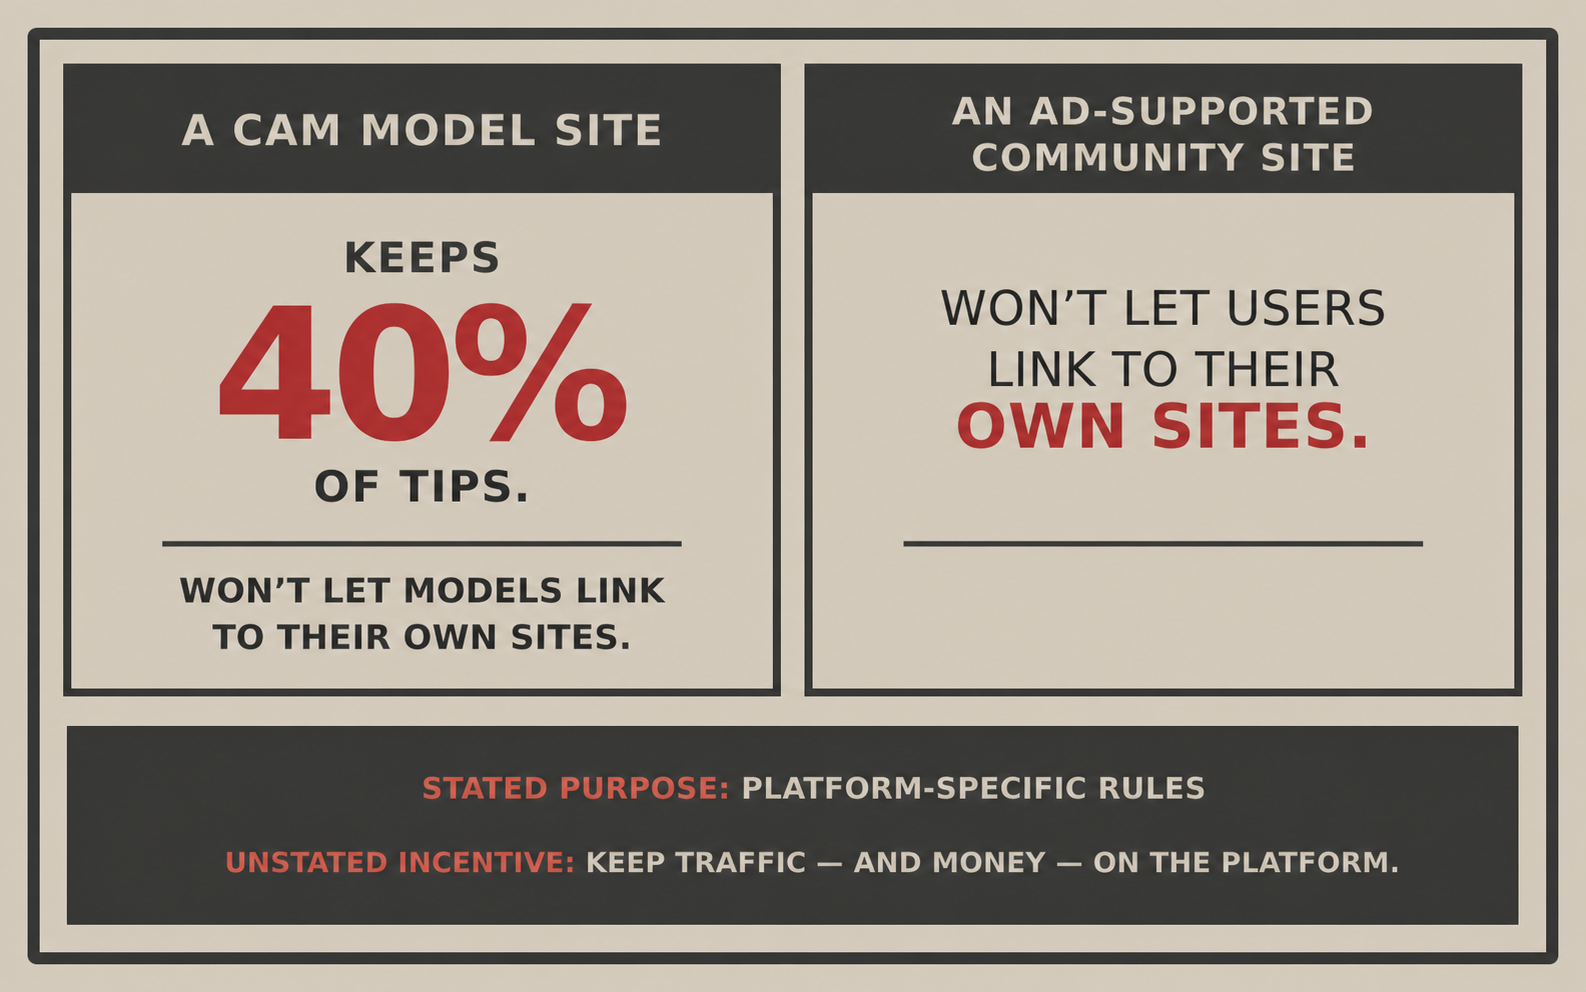
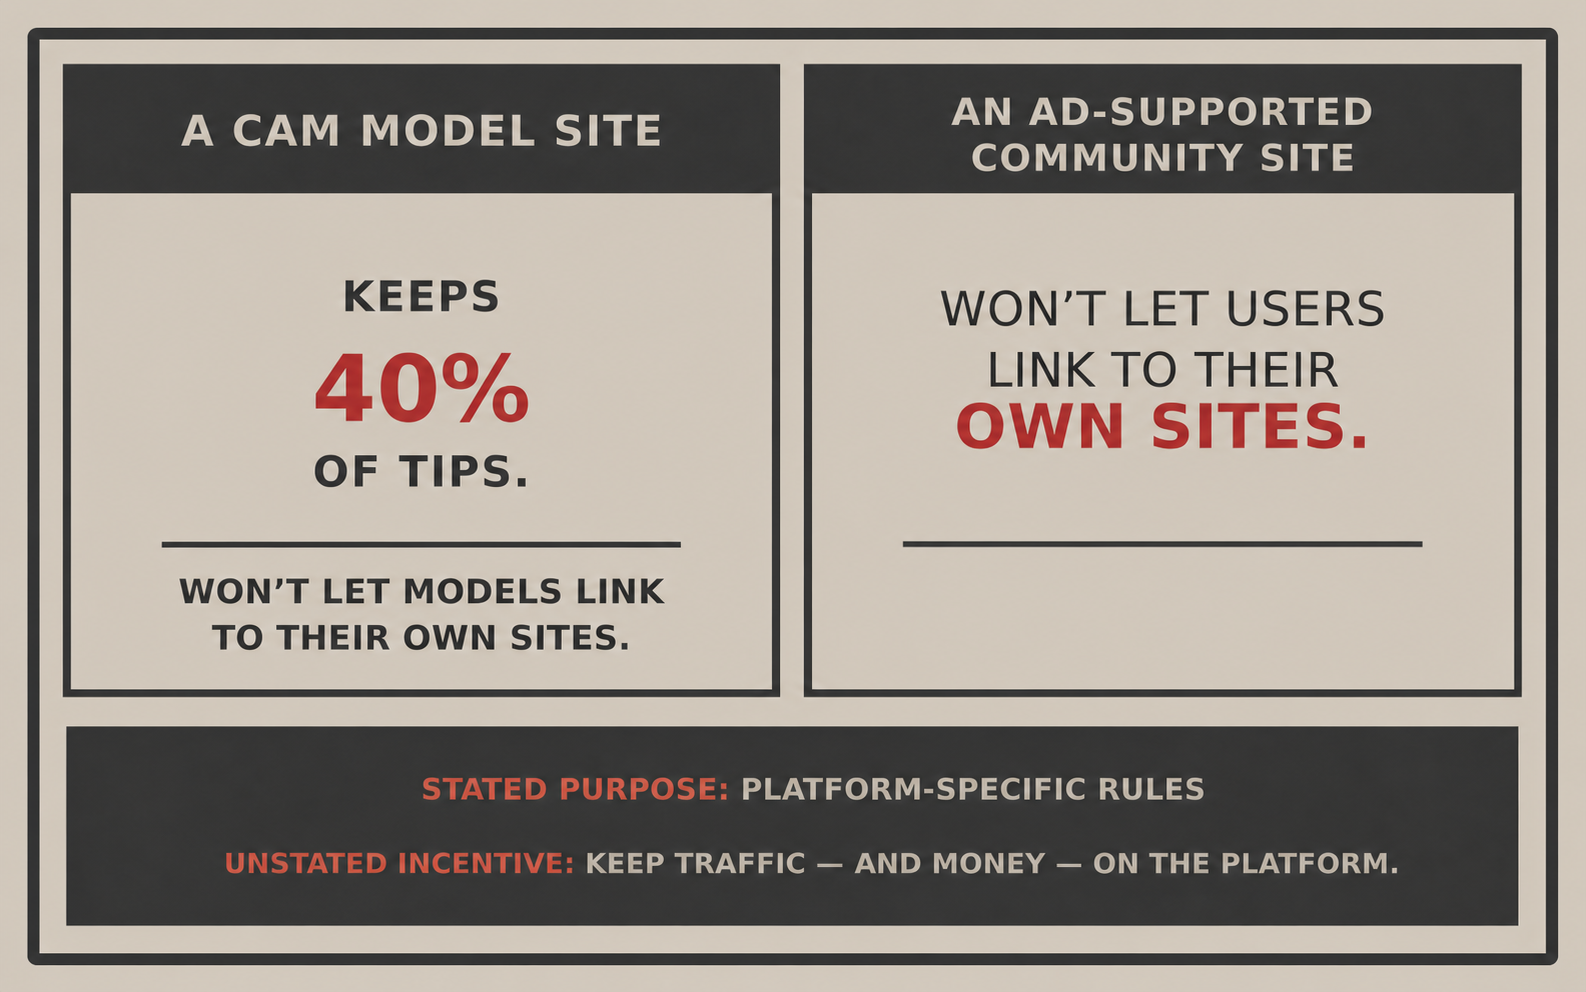
Reduce Captive Users percentage emphasis

diff --git a/comics/captive-users/index.html b/comics/captive-users/index.html
@@ -10,7 +10,7 @@
     <meta property="og:site_name" content="Stealing Art Jobs" />
     <meta property="og:title" content="Captive Users — Stealing Art Jobs" />
     <meta property="og:description" content="A comparison of cam-model and ad-supported community sites that argues both prohibit outbound links to keep traffic and money on their platforms." />
-    <meta property="og:image" content="https://stealingartjobs.com/comics/captive-users.png" />
+    <meta property="og:image" content="https://stealingartjobs.com/comics/captive-users.png?v=2" />
     <meta property="og:url" content="https://stealingartjobs.com/comics/captive-users/" />
     <link rel="canonical" href="https://stealingartjobs.com/comics/captive-users/" />
     <title>Captive Users — Stealing Art Jobs</title>
@@ -19,7 +19,7 @@
     <link href="https://fonts.googleapis.com/css2?family=DM+Mono:wght@400;500&family=Manrope:wght@500;600;700;800&display=swap" rel="stylesheet" />
     <link rel="stylesheet" href="/styles.css?v=19" />
     <script type="application/ld+json">{"@context":"https://schema.org","@type":"WebSite","name":"Stealing Art Jobs","url":"https://stealingartjobs.com/","description":"An independent webcomic about art, work, technology, and strange incentives."}</script>
-    <script type="application/ld+json">{"@context": "https://schema.org", "@type": "CreativeWork", "name": "Captive Users", "description": "A comparison of cam-model and ad-supported community sites that argues both prohibit outbound links to keep traffic and money on their platforms.", "datePublished": "2026-08-28", "image": "https://stealingartjobs.com/comics/captive-users.png", "url": "https://stealingartjobs.com/comics/captive-users/", "isPartOf": {"@type": "WebSite", "name": "Stealing Art Jobs", "url": "https://stealingartjobs.com/"}}</script>
+    <script type="application/ld+json">{"@context": "https://schema.org", "@type": "CreativeWork", "name": "Captive Users", "description": "A comparison of cam-model and ad-supported community sites that argues both prohibit outbound links to keep traffic and money on their platforms.", "datePublished": "2026-08-28", "image": "https://stealingartjobs.com/comics/captive-users.png?v=2", "url": "https://stealingartjobs.com/comics/captive-users/", "isPartOf": {"@type": "WebSite", "name": "Stealing Art Jobs", "url": "https://stealingartjobs.com/"}}</script>
   </head>
   <body>
     <header class="site-header">
@@ -72,7 +72,7 @@
 
         <figure class="comic-frame" id="comic-frame">
           <button class="comic-arrow comic-arrow-previous" id="comic-previous" type="button" aria-label="Previous comic"><span aria-hidden="true">&lt;</span></button>
-          <img id="comic-image" src="/comics/captive-users.png" alt="An infographic compares a cam-model site that keeps 40 percent of tips with an ad-supported community site. Both prohibit users from linking to their own sites, keeping traffic and money on the platform." />
+          <img id="comic-image" src="/comics/captive-users.png?v=2" alt="An infographic compares a cam-model site that keeps 40 percent of tips with an ad-supported community site. Both prohibit users from linking to their own sites, keeping traffic and money on the platform." />
           <button class="comic-arrow comic-arrow-next" id="comic-next" type="button" aria-label="Next comic" disabled><span aria-hidden="true">&gt;</span></button>
         </figure>
 

diff --git a/index.html b/index.html
@@ -10,7 +10,7 @@
     <meta property="og:site_name" content="Stealing Art Jobs" />
     <meta property="og:title" content="Stealing Art Jobs" />
     <meta property="og:description" content="An independent webcomic about art, work, technology, and strange incentives." />
-    <meta property="og:image" content="https://stealingartjobs.com/comics/captive-users.png" />
+    <meta property="og:image" content="https://stealingartjobs.com/comics/captive-users.png?v=2" />
     <meta property="og:url" content="https://stealingartjobs.com/" />
     <link rel="canonical" href="https://stealingartjobs.com/" />
     <title>Stealing Art Jobs — Independent Webcomic</title>
@@ -71,7 +71,7 @@
 
         <figure class="comic-frame" id="comic-frame">
           <button class="comic-arrow comic-arrow-previous" id="comic-previous" type="button" aria-label="Previous comic"><span aria-hidden="true">&lt;</span></button>
-          <img id="comic-image" src="/comics/captive-users.png" alt="An infographic compares a cam-model site that keeps 40 percent of tips with an ad-supported community site. Both prohibit users from linking to their own sites, keeping traffic and money on the platform." />
+          <img id="comic-image" src="/comics/captive-users.png?v=2" alt="An infographic compares a cam-model site that keeps 40 percent of tips with an ad-supported community site. Both prohibit users from linking to their own sites, keeping traffic and money on the platform." />
           <button class="comic-arrow comic-arrow-next" id="comic-next" type="button" aria-label="Next comic" disabled><span aria-hidden="true">&gt;</span></button>
         </figure>
 
